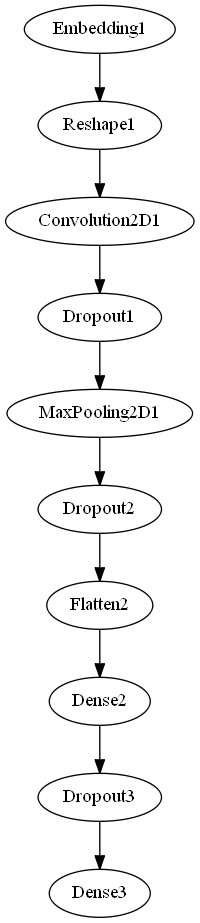
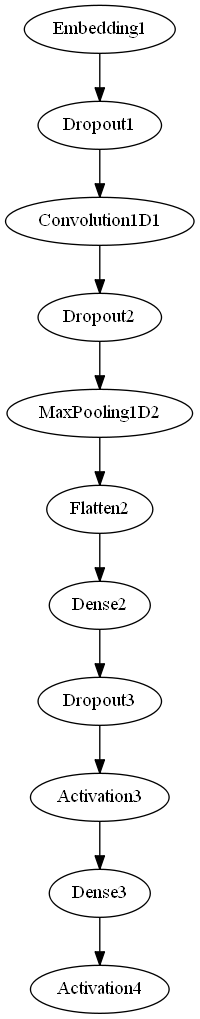
using convolution1D

diff --git a/models.py b/models.py
@@ -98,19 +98,61 @@ def cnn(W=None):
 
 def imdb_cnn(W=None):
     # Number of feature maps (outputs of convolutional layer)
-    N_fm = 20
+    N_fm = 60
     # kernel size of convolutional layer
     kernel_size = 3
     dims = 300  # 300 dimension
     maxlen = 200  # maxlen of sentence
     max_features = 5000
+    hidden_dims = 100
+    print('Build model...')
+    model = Sequential()
+
+    # we start off with an efficient embedding layer which maps
+    # our vocab indices into embedding_dims dimensions
+    model.add(Embedding(max_features, dims, input_length=maxlen, weights=[W]))
+    model.add(Dropout(0.5))
+
+    # we add a Convolution1D, which will learn nb_filter
+    # word group filters of size filter_length:
+    model.add(Convolution1D(nb_filter=N_fm,
+                            filter_length=kernel_size,
+                            border_mode='valid',
+                            activation='relu',
+                            ))
+    model.add(Dropout(0.5))
+    # we use standard max pooling (halving the output of the previous layer):
+    model.add(MaxPooling1D(pool_length=kernel_size*7))
+
+    # We flatten the output of the conv layer,
+    # so that we can add a vanilla dense layer:
+    model.add(Flatten())
+
+    # We add a vanilla hidden layer:
+    model.add(Dense(hidden_dims))
+    model.add(Dropout(0.5))
+    model.add(Activation('relu'))
+
+    # We project onto a single unit output layer, and squash it with a sigmoid:
+    model.add(Dense(2))
+    model.add(Activation('softmax'))
+    return model
+
+def imdb_cnn_sts(W=None):
+    # Number of feature maps (outputs of convolutional layer)
+    N_fm = 20
+    # kernel size of convolutional layer
+    kernel_size = 3
+    dims = 300  # 300 dimension
+    maxlen = 200  # maxlen of sentence
+    max_features = W.shape[0]
     hidden_dims = 10
     print('Build model...')
     model = Sequential()
 
     # we start off with an efficient embedding layer which maps
     # our vocab indices into embedding_dims dimensions
-    model.add(Embedding(max_features, dims, input_length=maxlen))
+    model.add(Embedding(max_features, dims, input_length=maxlen, weights=[W]))
     model.add(Dropout(0.5))
 
     # we add a Convolution1D, which will learn nb_filter
@@ -232,15 +274,15 @@ def parallel_cnn(W):
     filter_shapes = [[2, 300], [3, 300], [4, 300], [5, 300]]
     pool_shapes = [[25, 1], [24, 1], [23, 1], [22, 1]]  # Four Parallel Convolutional Layers with Four Pooling Layers
     model = Sequential()
-    model.add(Embedding(input_dim=W.shape[0], output_dim=W.shape[1], weights=[W], W_constraint=unitnorm()))
-    # Reshape word vectors from Embedding to tensor format suitable for Convolutional layer
-    model.add(Reshape(dims=(1, 200, dims)))
     sub_models = []
     for i in range(len(pool_shapes)):
         pool_shape = pool_shapes[i]
         filter_shape = filter_shapes[i]
         sub_model = Sequential()
-        sub_model.add(Convolution2D(input_shape=(1, 200, dims),nb_filter=N_filter, nb_row=filter_shape[0], nb_col=filter_shape[1], border_mode = 'valid', activation = 'relu'))
+        sub_model.add(Embedding(input_dim=nb_vocab, output_dim=dims, weights=[W], W_constraint=unitnorm()))
+        # Reshape word vectors from Embedding to tensor format suitable for Convolutional layer
+        sub_model.add(Reshape(dims=(1, 200, dims)))
+        sub_model.add(Convolution2D(nb_filter=N_filter, nb_row=filter_shape[0], nb_col=filter_shape[1], border_mode = 'valid', activation = 'relu'))
         sub_model.add(MaxPooling2D(pool_size=(pool_shape[0], pool_shape[1]), border_mode='valid'))
         sub_model.add(Flatten())
         sub_models.append(sub_model)
@@ -289,7 +331,7 @@ def SA_sst():
     y_test = np_utils.to_categorical(y_test, nb_classes)
     y_valide = np_utils.to_categorical(y_valide, nb_classes)
 
-    model = parallel_cnn(W)
+    model = imdb_cnn_sts(W)
     plot(model, to_file='./images/model.png')
 
     # try using different optimizers and different optimizer configs
@@ -298,7 +340,7 @@ def SA_sst():
 
     print("Train...")
     early_stopping = EarlyStopping(monitor='val_loss', patience=10)
-    model.fit(X_train, y_train, batch_size=batch_size, nb_epoch=3, validation_data=(X_test, y_test), show_accuracy=True,
+    model.fit(X_train, y_train, batch_size=batch_size, nb_epoch=20, validation_data=(X_test, y_test), show_accuracy=True,
               callbacks=[early_stopping])
     score, acc = model.evaluate(X_test, y_test, batch_size=batch_size, show_accuracy=True)
     print('Test score:', score)
